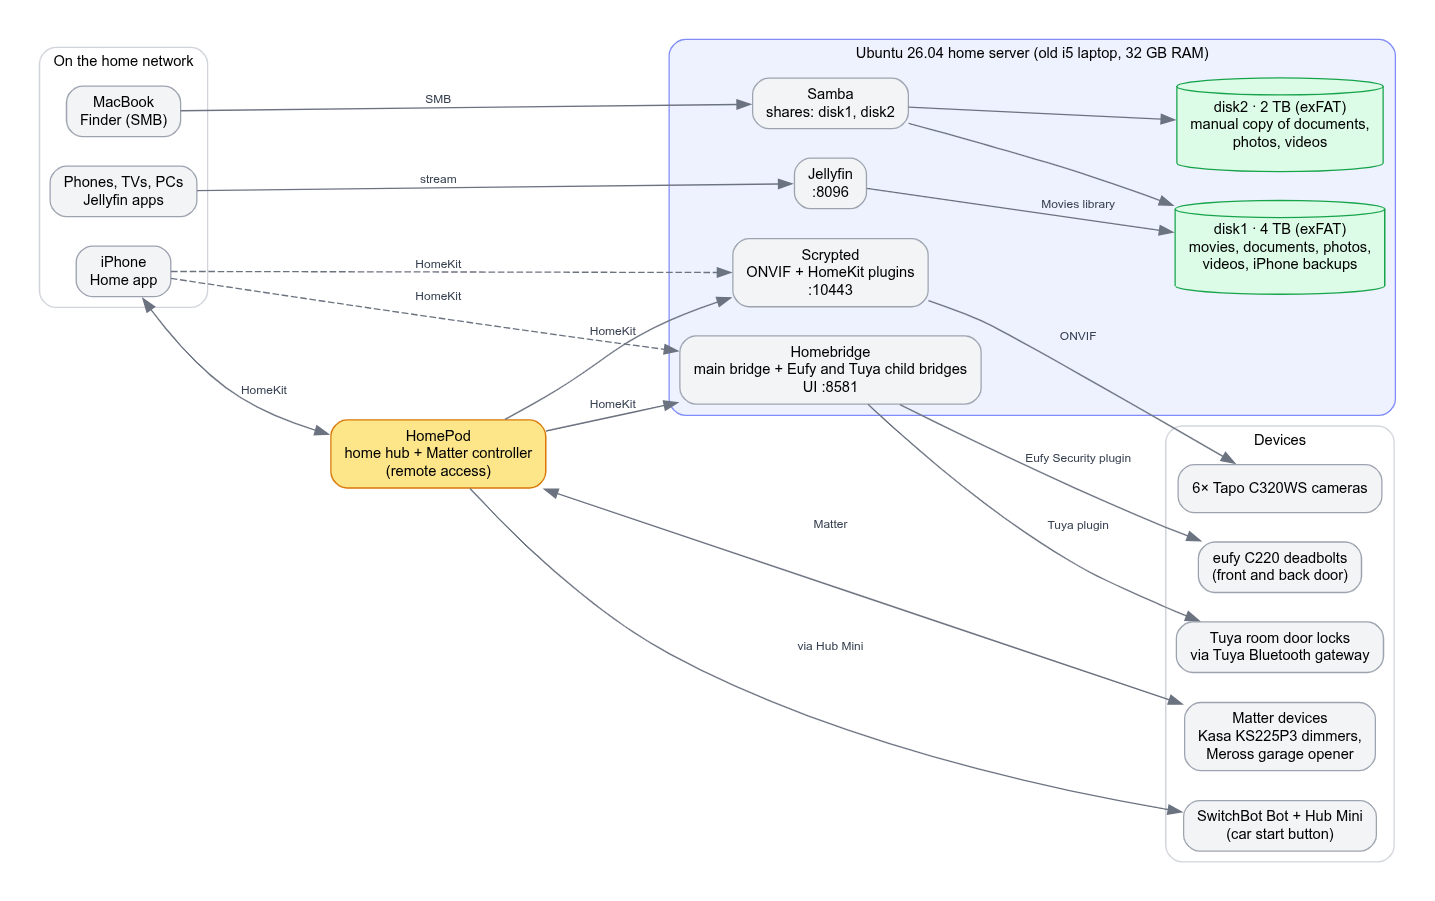
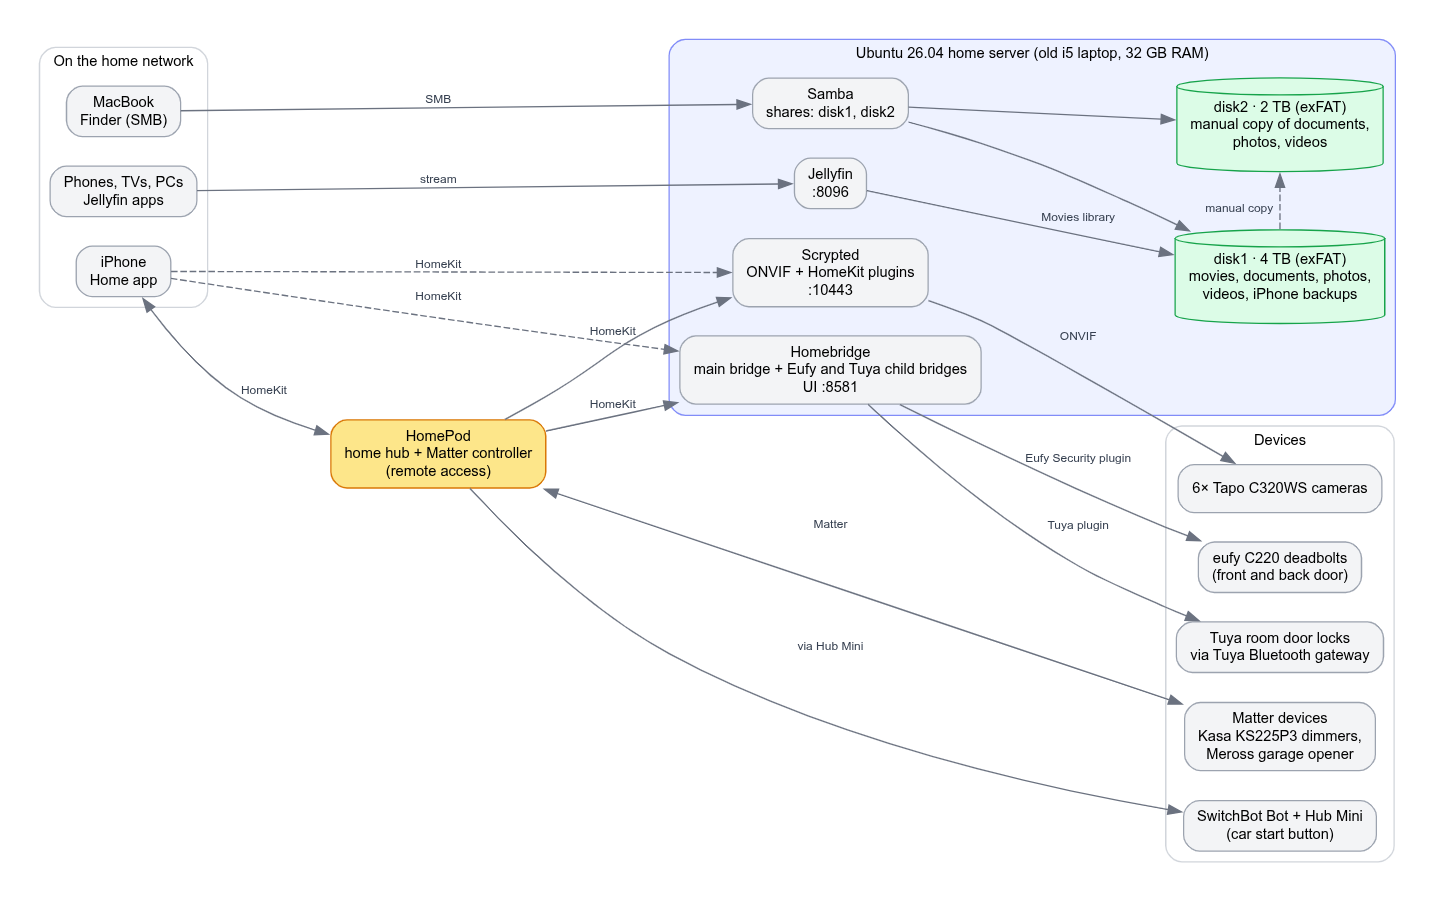
added matter, car remote, roadmap and updated architecture

Changed region(s): [[0.6439, 0.1865, 0.9812, 0.3418], [0.7052, 0.1554, 0.7359, 0.1865], [0.6439, 0.1243, 0.6746, 0.1554]]

diff --git a/docs/06-car-remote-start.md b/docs/06-car-remote-start.md
@@ -1,0 +1,26 @@
+# Car remote start
+
+[← Back to the overview](../README.md)
+
+A retrofit remote starter costs a lot, so I built a start button for the car out of a SwitchBot and a setting change.
+
+## How it works
+
+1. A **SwitchBot Bot** is mounted next to the car's push-to-start button and physically presses it.
+2. The Bot runs a two-step **Action Combo** in the SwitchBot app: press, a short pause, press again.
+3. A **SwitchBot Hub Mini** connects the Bot to the home network and bridges it into the Apple Home app, where it shows up as a switch.
+4. The car's own settings were changed with BimmerLink so the engine can start without the brake pedal pressed.
+
+From the Home app (including when I'm away, via the HomePod hub) it is one tap.
+
+## Keeping the on/off state working
+
+I had trouble with the switch's on and off states. Home treats the Bot as an on/off switch, but all it really does is press a button, so the state shown in Home doesn't follow what the car is doing.
+
+The fix was a shortcut in the iOS Shortcuts app that gets the switch's current state and flips it: if it is on, turn it off; if it is off, turn it on. Each run then sends a fresh press, whatever state Home currently shows.
+
+## Safety
+
+- It is only used with the car in Park.
+- Never run the engine in a closed garage. The garage door must be open, because of carbon monoxide.
+- Changing car settings can have side effects and may affect your warranty. I'm deliberately not documenting the coding steps. This page describes my setup and isn't a how-to.

diff --git a/README.md b/README.md
@@ -4,6 +4,18 @@ My Ubuntu home server on an old i5 laptop: Samba storage and family iPhone backu
 
 ![Architecture of the home server and smart home](images/architecture.png)
 
+Instead of investing in dedicated NAS hardware or replacing existing smart home devices, I built a centralized system using open-source software, repurposed storage, and third-party integrations.
+
+# Project goals
+Repurpose existing hardware rather than purchasing dedicated server equipment.
+Centralize household storage and preserve important personal data.
+Host media and services locally.
+Integrate devices from multiple manufacturers into Apple Home.
+Document configuration decisions, limitations, troubleshooting, and future improvements.
+Maintain a reproducible technical reference for future upgrades.
+
+This repository documents my personal implementation, including practical lessons learned while maintaining a continuously running home server.
+
 ## What it does
 
 - **Storage and backups.** Two repurposed hard drives (4 TB and 2 TB) are shared over Samba. The 4 TB drive holds documents, photos, videos, movies and the family's iPhone backups. The 2 TB drive holds a second copy of the documents, photos and videos.
@@ -64,6 +76,5 @@ Everything runs directly on the host. There are no Docker containers.
 ```
 README.md
 docs/        one document per part of the setup
-examples/    sanitized example configs
 images/      architecture diagram (Graphviz source included) and screenshots
 ```

diff --git a/docs/05-matter-devices.md b/docs/05-matter-devices.md
@@ -1,0 +1,24 @@
+# Matter devices
+
+[← Back to the overview](../README.md)
+
+Matter devices join Apple Home directly. They don't go through Homebridge or Scrypted, so they keep working even if the server is off.
+
+<img src="../images/home-app-rooms.jpg" alt="Apple Home app showing the garage door, locks and dimmers" width="300">
+
+## Devices
+
+| Device | Role |
+|---|---|
+| Kasa KS225P3 Matter smart dimmer switches | Room light switches with dimming |
+| Meross garage door opener adapter | Opens and closes the garage door from the Home app |
+
+## How they are added
+
+1. Put the device in pairing mode (see its manual).
+2. In the Home app choose Add Accessory and scan the Matter setup code on the device or its box.
+3. Give it a name and a room.
+
+The HomePod acts as the home hub and Matter controller. It is also what makes the devices controllable when I'm away from home.
+
+Matter setup codes are usually printed on the devices.

diff --git a/docs/07-roadmap.md b/docs/07-roadmap.md
@@ -1,0 +1,17 @@
+# Roadmap and limitations
+
+[← Back to the overview](../README.md)
+
+## Next up
+
+- [ ] Install an **ecobee thermostat** and add it to the Apple Home app
+- [ ] Reach **Jellyfin from outside** the home network
+- [ ] Reach the **Samba drives from outside** the home network
+- [ ] **Automate the copy to disk2**, which is manual today
+
+## Limitations today
+
+- The copy to the 2 TB drive is done by hand, so it is only as fresh as the last time I ran it.
+- Movies and the iPhone backups exist only on the 4 TB drive. The 2 TB drive holds documents, photos and videos.
+- Jellyfin and Samba work only on the home network.
+- The iPhone backups are made on the Mac and copied over by hand, not scheduled.
